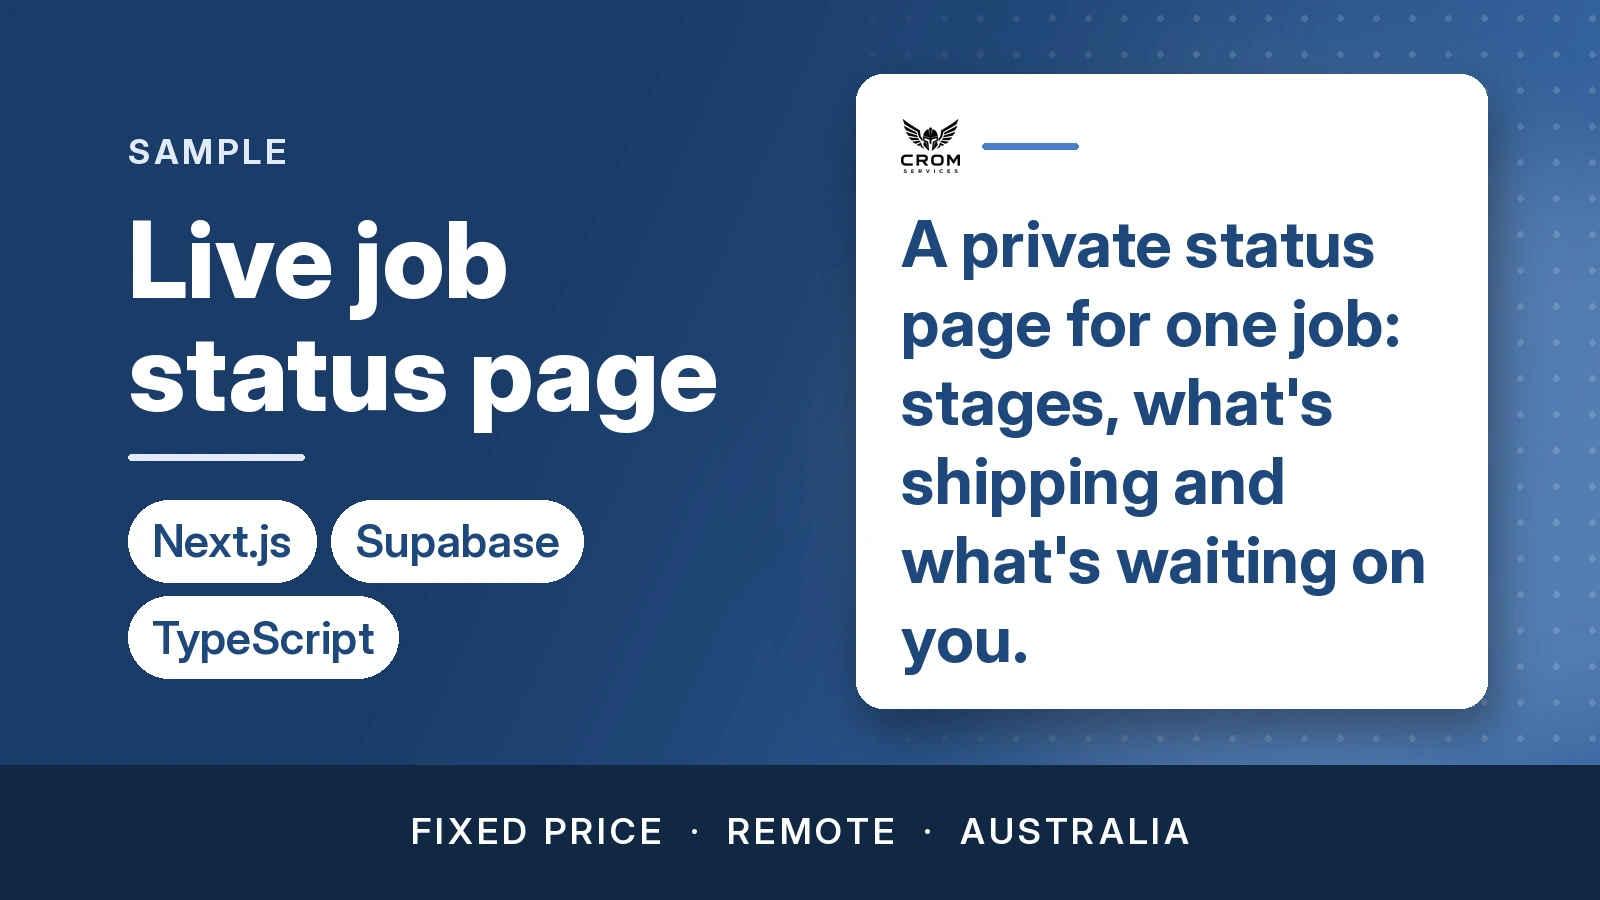
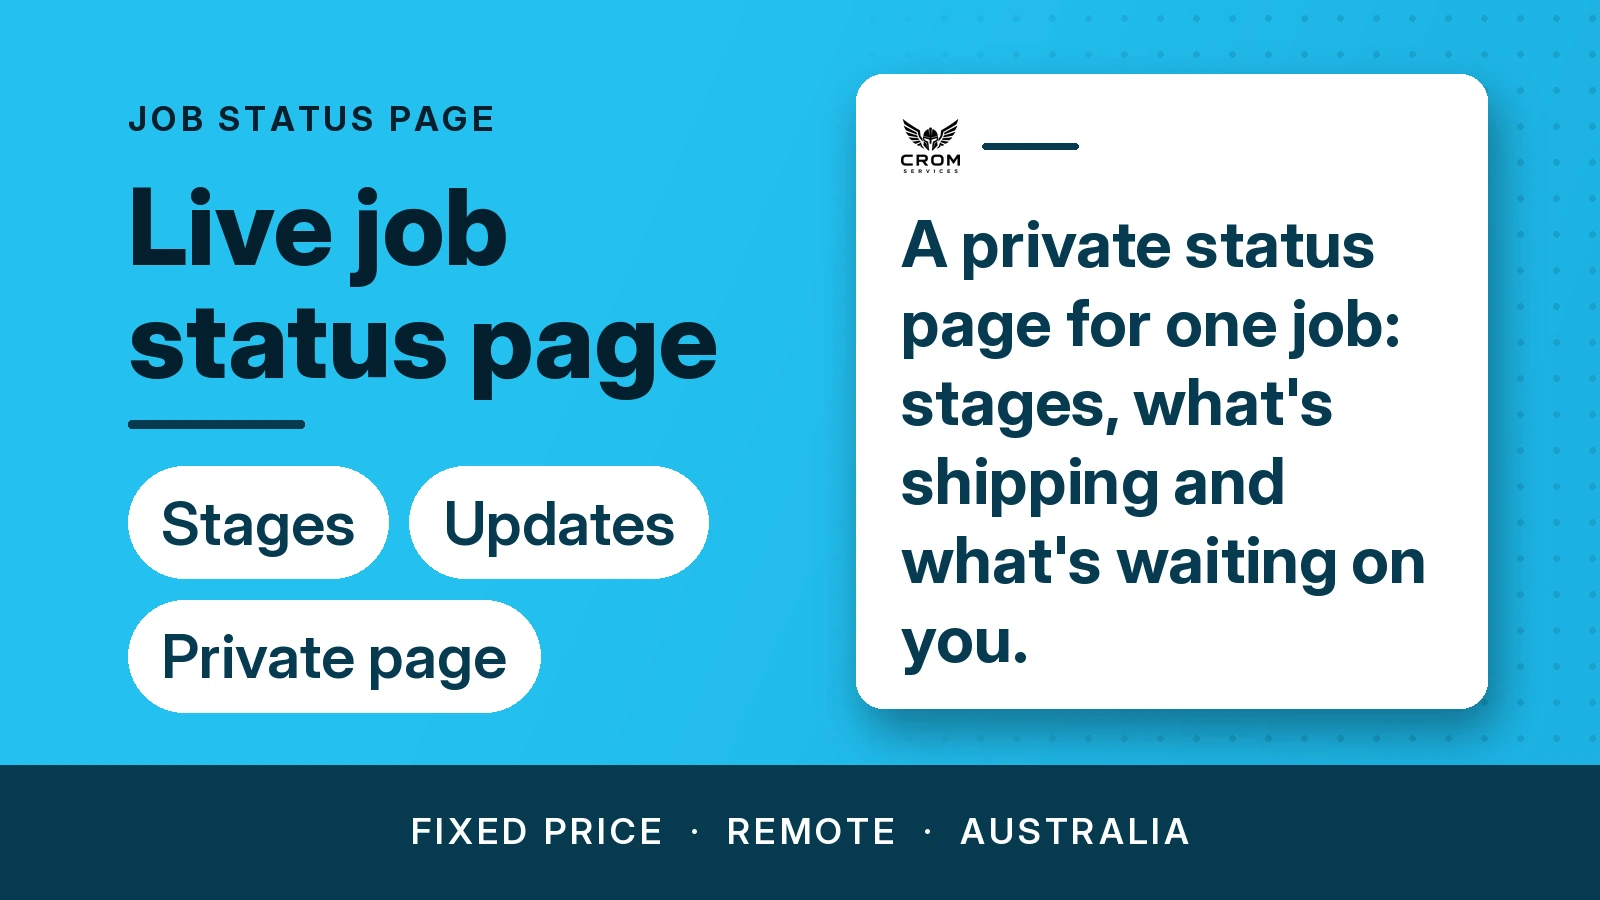
Packs page: Brand bold card re-export (new colours, copy, pills) on all 14 cards; cachebust

diff --git a/packs/index.html b/packs/index.html
@@ -69,8 +69,8 @@
       <article class="pack">
         <div class="pack-media">
           <picture>
-            <source srcset="./crom-card-audit.webp?v=1791987635" type="image/webp" />
-            <img src="./crom-card-audit.png?v=1791987635" width="1600" height="900" alt="Technical audit pack thumbnail" />
+            <source srcset="./crom-card-audit.webp?v=1791988324" type="image/webp" />
+            <img src="./crom-card-audit.png?v=1791988324" width="1600" height="900" alt="Technical audit pack thumbnail" />
           </picture>
         </div>
         <div class="pack-body">
@@ -84,8 +84,8 @@
       <article class="pack">
         <div class="pack-media">
           <picture>
-            <source srcset="./crom-card-status.webp?v=1791987635" type="image/webp" />
-            <img src="./crom-card-status.png?v=1791987635" width="1600" height="900" alt="Job status page pack thumbnail" />
+            <source srcset="./crom-card-status.webp?v=1791988324" type="image/webp" />
+            <img src="./crom-card-status.png?v=1791988324" width="1600" height="900" alt="Job status page pack thumbnail" />
           </picture>
         </div>
         <div class="pack-body">
@@ -99,8 +99,8 @@
       <article class="pack">
         <div class="pack-media">
           <picture>
-            <source srcset="./crom-card-api.webp?v=1791987635" type="image/webp" />
-            <img src="./crom-card-api.png?v=1791987635" width="1600" height="900" alt="Connect your systems pack thumbnail: your tools, working together" />
+            <source srcset="./crom-card-api.webp?v=1791988324" type="image/webp" />
+            <img src="./crom-card-api.png?v=1791988324" width="1600" height="900" alt="Connect your systems pack thumbnail: your tools, working together" />
           </picture>
         </div>
         <div class="pack-body">
@@ -115,8 +115,8 @@
       <article class="pack">
         <div class="pack-media">
           <picture>
-            <source srcset="./crom-card-next-ui.webp?v=1791987635" type="image/webp" />
-            <img src="./crom-card-next-ui.png?v=1791987635" width="1600" height="900" alt="Website and app screens pack thumbnail: clean screens people enjoy using" />
+            <source srcset="./crom-card-next-ui.webp?v=1791988324" type="image/webp" />
+            <img src="./crom-card-next-ui.png?v=1791988324" width="1600" height="900" alt="Website and app screens pack thumbnail: clean screens people enjoy using" />
           </picture>
         </div>
         <div class="pack-body">
@@ -130,8 +130,8 @@
       <article class="pack">
         <div class="pack-media">
           <picture>
-            <source srcset="./crom-card-rest.webp?v=1791987635" type="image/webp" />
-            <img src="./crom-card-rest.png?v=1791987635" width="1600" height="900" alt="Data service pack thumbnail: your data, ready when you need it" />
+            <source srcset="./crom-card-rest.webp?v=1791988324" type="image/webp" />
+            <img src="./crom-card-rest.png?v=1791988324" width="1600" height="900" alt="Data service pack thumbnail: your data, ready when you need it" />
           </picture>
         </div>
         <div class="pack-body">
@@ -145,8 +145,8 @@
       <article class="pack">
         <div class="pack-media">
           <picture>
-            <source srcset="./crom-card-workflow.webp?v=1791987635" type="image/webp" />
-            <img src="./crom-card-workflow.png?v=1791987635" width="1600" height="900" alt="Workflow automation pack thumbnail" />
+            <source srcset="./crom-card-workflow.webp?v=1791988324" type="image/webp" />
+            <img src="./crom-card-workflow.png?v=1791988324" width="1600" height="900" alt="Workflow automation pack thumbnail" />
           </picture>
         </div>
         <div class="pack-body">
@@ -160,8 +160,8 @@
       <article class="pack">
         <div class="pack-media">
           <picture>
-            <source srcset="./crom-card-wix.webp?v=1791987635" type="image/webp" />
-            <img src="./crom-card-wix.png?v=1791987635" width="1600" height="900" alt="Wix site rebuild pack thumbnail: a clean local business homepage with a free quote button" />
+            <source srcset="./crom-card-wix.webp?v=1791988324" type="image/webp" />
+            <img src="./crom-card-wix.png?v=1791988324" width="1600" height="900" alt="Wix site rebuild pack thumbnail: a clean local business homepage with a free quote button" />
           </picture>
         </div>
         <div class="pack-body">
@@ -175,8 +175,8 @@
       <article class="pack">
         <div class="pack-media">
           <picture>
-            <source srcset="./crom-card-lovable.webp?v=1791987635" type="image/webp" />
-            <img src="./crom-card-lovable.png?v=1791987635" width="1600" height="900" alt="Lovable website pack thumbnail: a friendly local business homepage with online booking" />
+            <source srcset="./crom-card-lovable.webp?v=1791988324" type="image/webp" />
+            <img src="./crom-card-lovable.png?v=1791988324" width="1600" height="900" alt="Lovable website pack thumbnail: a friendly local business homepage with online booking" />
           </picture>
         </div>
         <div class="pack-body">
@@ -190,8 +190,8 @@
       <article class="pack">
         <div class="pack-media">
           <picture>
-            <source srcset="./crom-card-web-tests.webp?v=1791987635" type="image/webp" />
-            <img src="./crom-card-web-tests.png?v=1791987635" width="1600" height="900" alt="Automated website tests pack thumbnail" />
+            <source srcset="./crom-card-web-tests.webp?v=1791988324" type="image/webp" />
+            <img src="./crom-card-web-tests.png?v=1791988324" width="1600" height="900" alt="Automated website tests pack thumbnail" />
           </picture>
         </div>
         <div class="pack-body">
@@ -204,8 +204,8 @@
       <article class="pack">
         <div class="pack-media">
           <picture>
-            <source srcset="./crom-card-ad-leads.webp?v=1791987635" type="image/webp" />
-            <img src="./crom-card-ad-leads.png?v=1791987635" width="1600" height="900" alt="Facebook ad leads pack thumbnail" />
+            <source srcset="./crom-card-ad-leads.webp?v=1791988324" type="image/webp" />
+            <img src="./crom-card-ad-leads.png?v=1791988324" width="1600" height="900" alt="Facebook ad leads pack thumbnail" />
           </picture>
         </div>
         <div class="pack-body">
@@ -218,8 +218,8 @@
       <article class="pack">
         <div class="pack-media">
           <picture>
-            <source srcset="./crom-card-whatsapp.webp?v=1791987635" type="image/webp" />
-            <img src="./crom-card-whatsapp.png?v=1791987635" width="1600" height="900" alt="WhatsApp orders pack thumbnail" />
+            <source srcset="./crom-card-whatsapp.webp?v=1791988324" type="image/webp" />
+            <img src="./crom-card-whatsapp.png?v=1791988324" width="1600" height="900" alt="WhatsApp orders pack thumbnail" />
           </picture>
         </div>
         <div class="pack-body">
@@ -232,8 +232,8 @@
       <article class="pack">
         <div class="pack-media">
           <picture>
-            <source srcset="./crom-card-speed-seo.webp?v=1791987635" type="image/webp" />
-            <img src="./crom-card-speed-seo.png?v=1791987635" width="1600" height="900" alt="Speed + SEO fix pack thumbnail" />
+            <source srcset="./crom-card-speed-seo.webp?v=1791988324" type="image/webp" />
+            <img src="./crom-card-speed-seo.png?v=1791988324" width="1600" height="900" alt="Speed + SEO fix pack thumbnail" />
           </picture>
         </div>
         <div class="pack-body">
@@ -246,8 +246,8 @@
       <article class="pack">
         <div class="pack-media">
           <picture>
-            <source srcset="./crom-card-squarespace.webp?v=1791987635" type="image/webp" />
-            <img src="./crom-card-squarespace.png?v=1791987635" width="1600" height="900" alt="Squarespace page fix pack thumbnail" />
+            <source srcset="./crom-card-squarespace.webp?v=1791988324" type="image/webp" />
+            <img src="./crom-card-squarespace.png?v=1791988324" width="1600" height="900" alt="Squarespace page fix pack thumbnail" />
           </picture>
         </div>
         <div class="pack-body">
@@ -260,8 +260,8 @@
       <article class="pack">
         <div class="pack-media">
           <picture>
-            <source srcset="./crom-card-care-plan.webp?v=1791987635" type="image/webp" />
-            <img src="./crom-card-care-plan.png?v=1791987635" width="1600" height="900" alt="Monthly care plan pack thumbnail" />
+            <source srcset="./crom-card-care-plan.webp?v=1791988324" type="image/webp" />
+            <img src="./crom-card-care-plan.png?v=1791988324" width="1600" height="900" alt="Monthly care plan pack thumbnail" />
           </picture>
         </div>
         <div class="pack-body">
